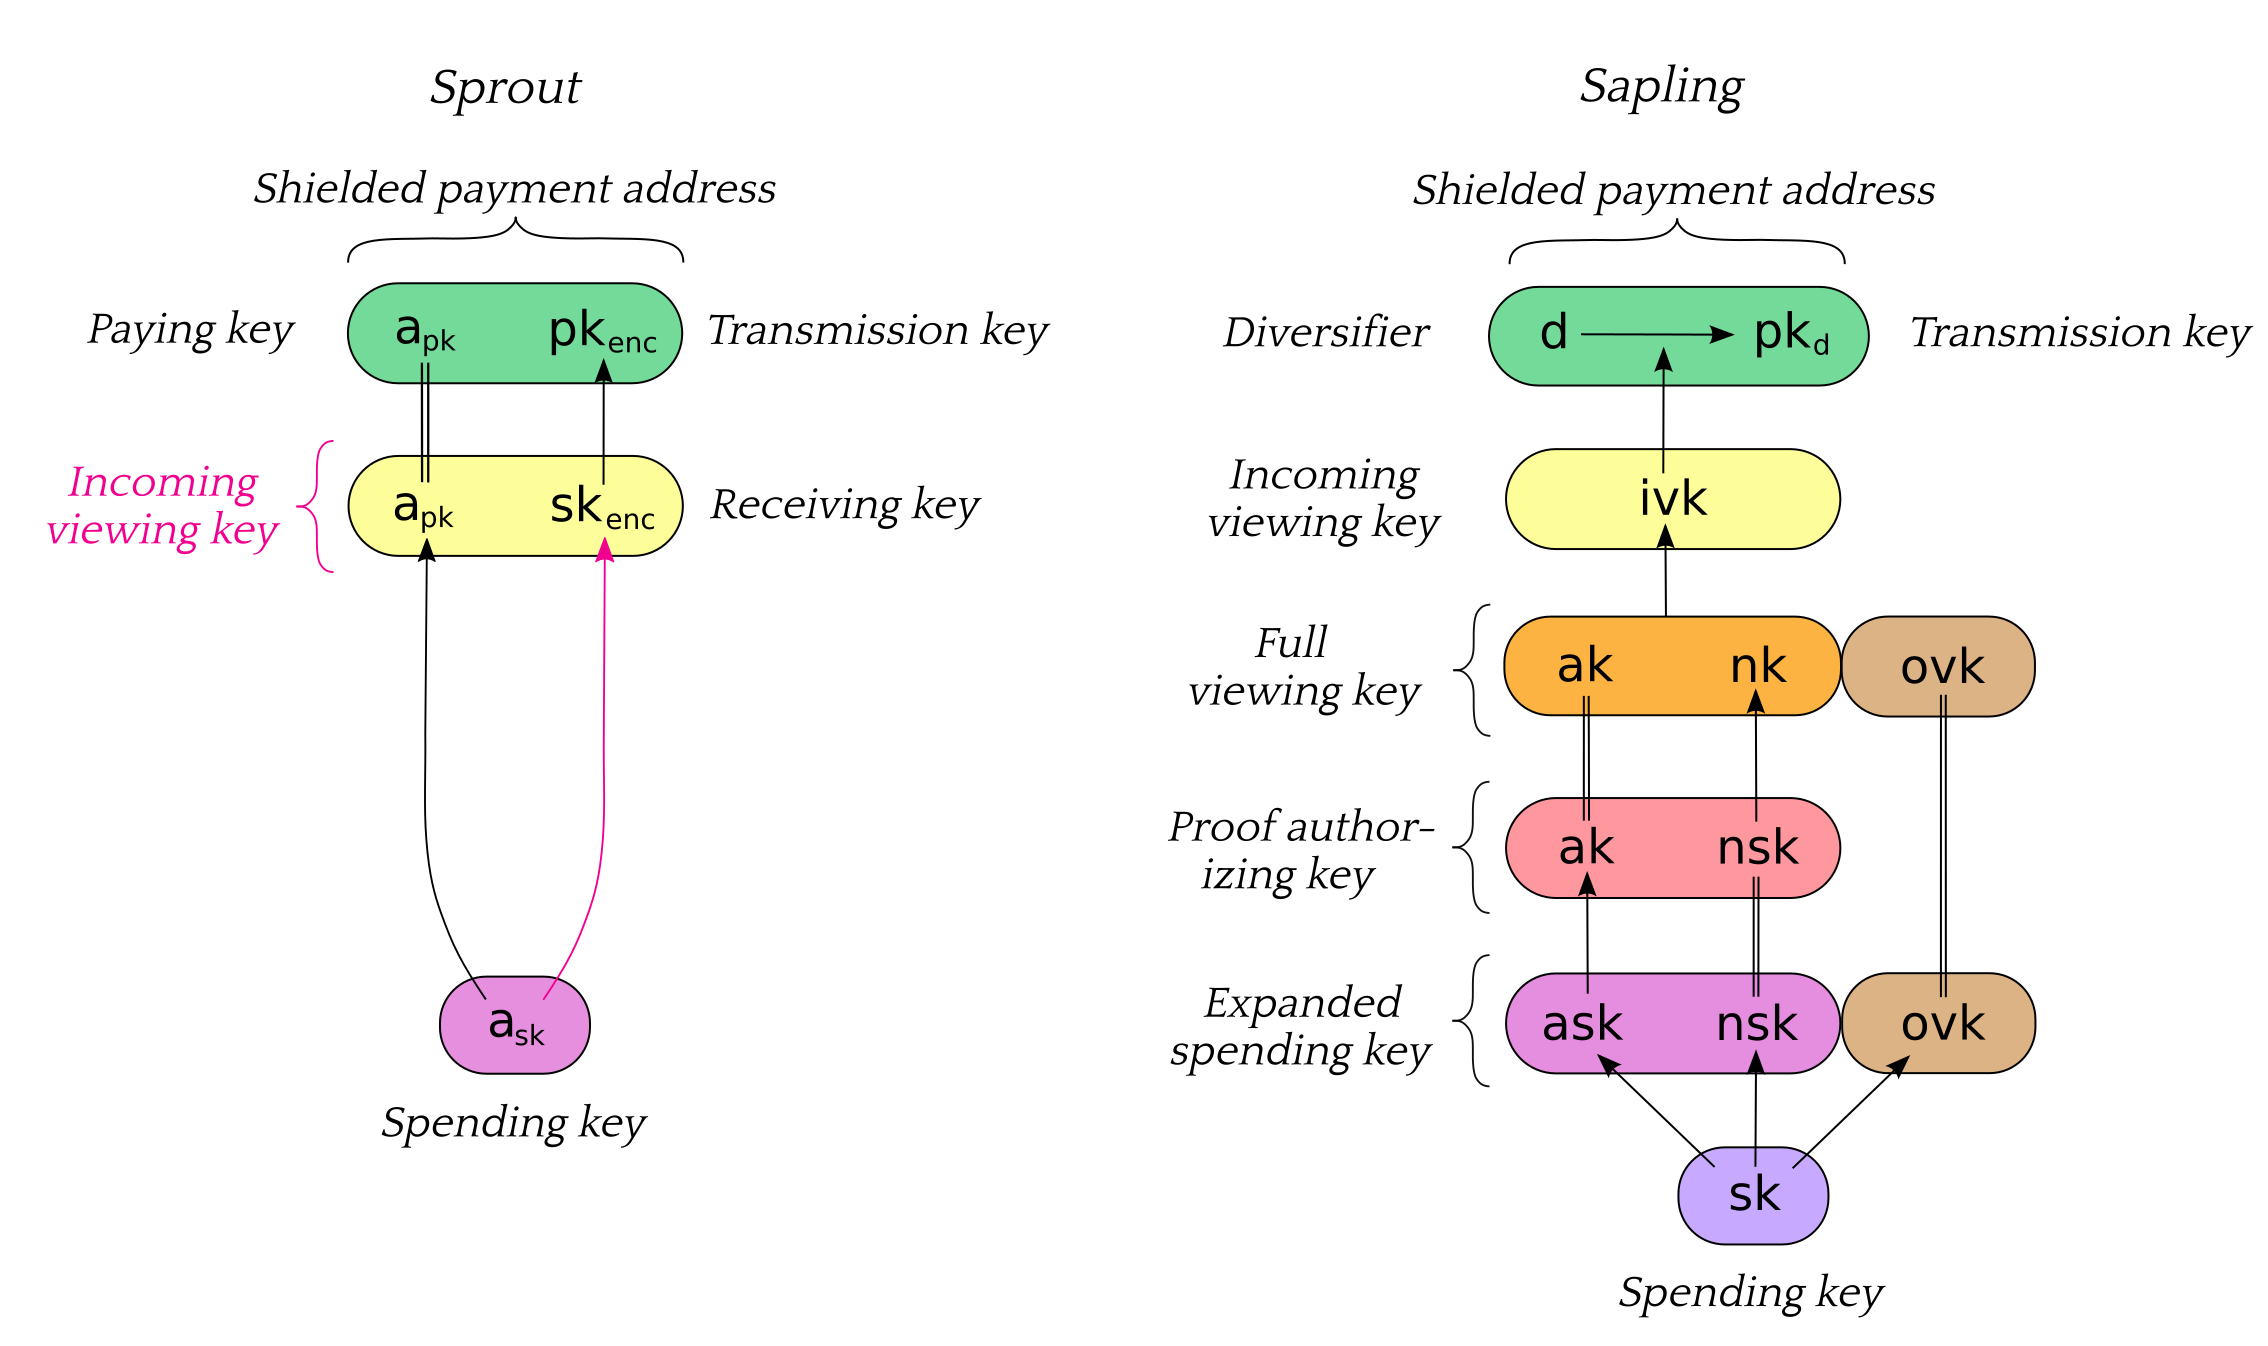
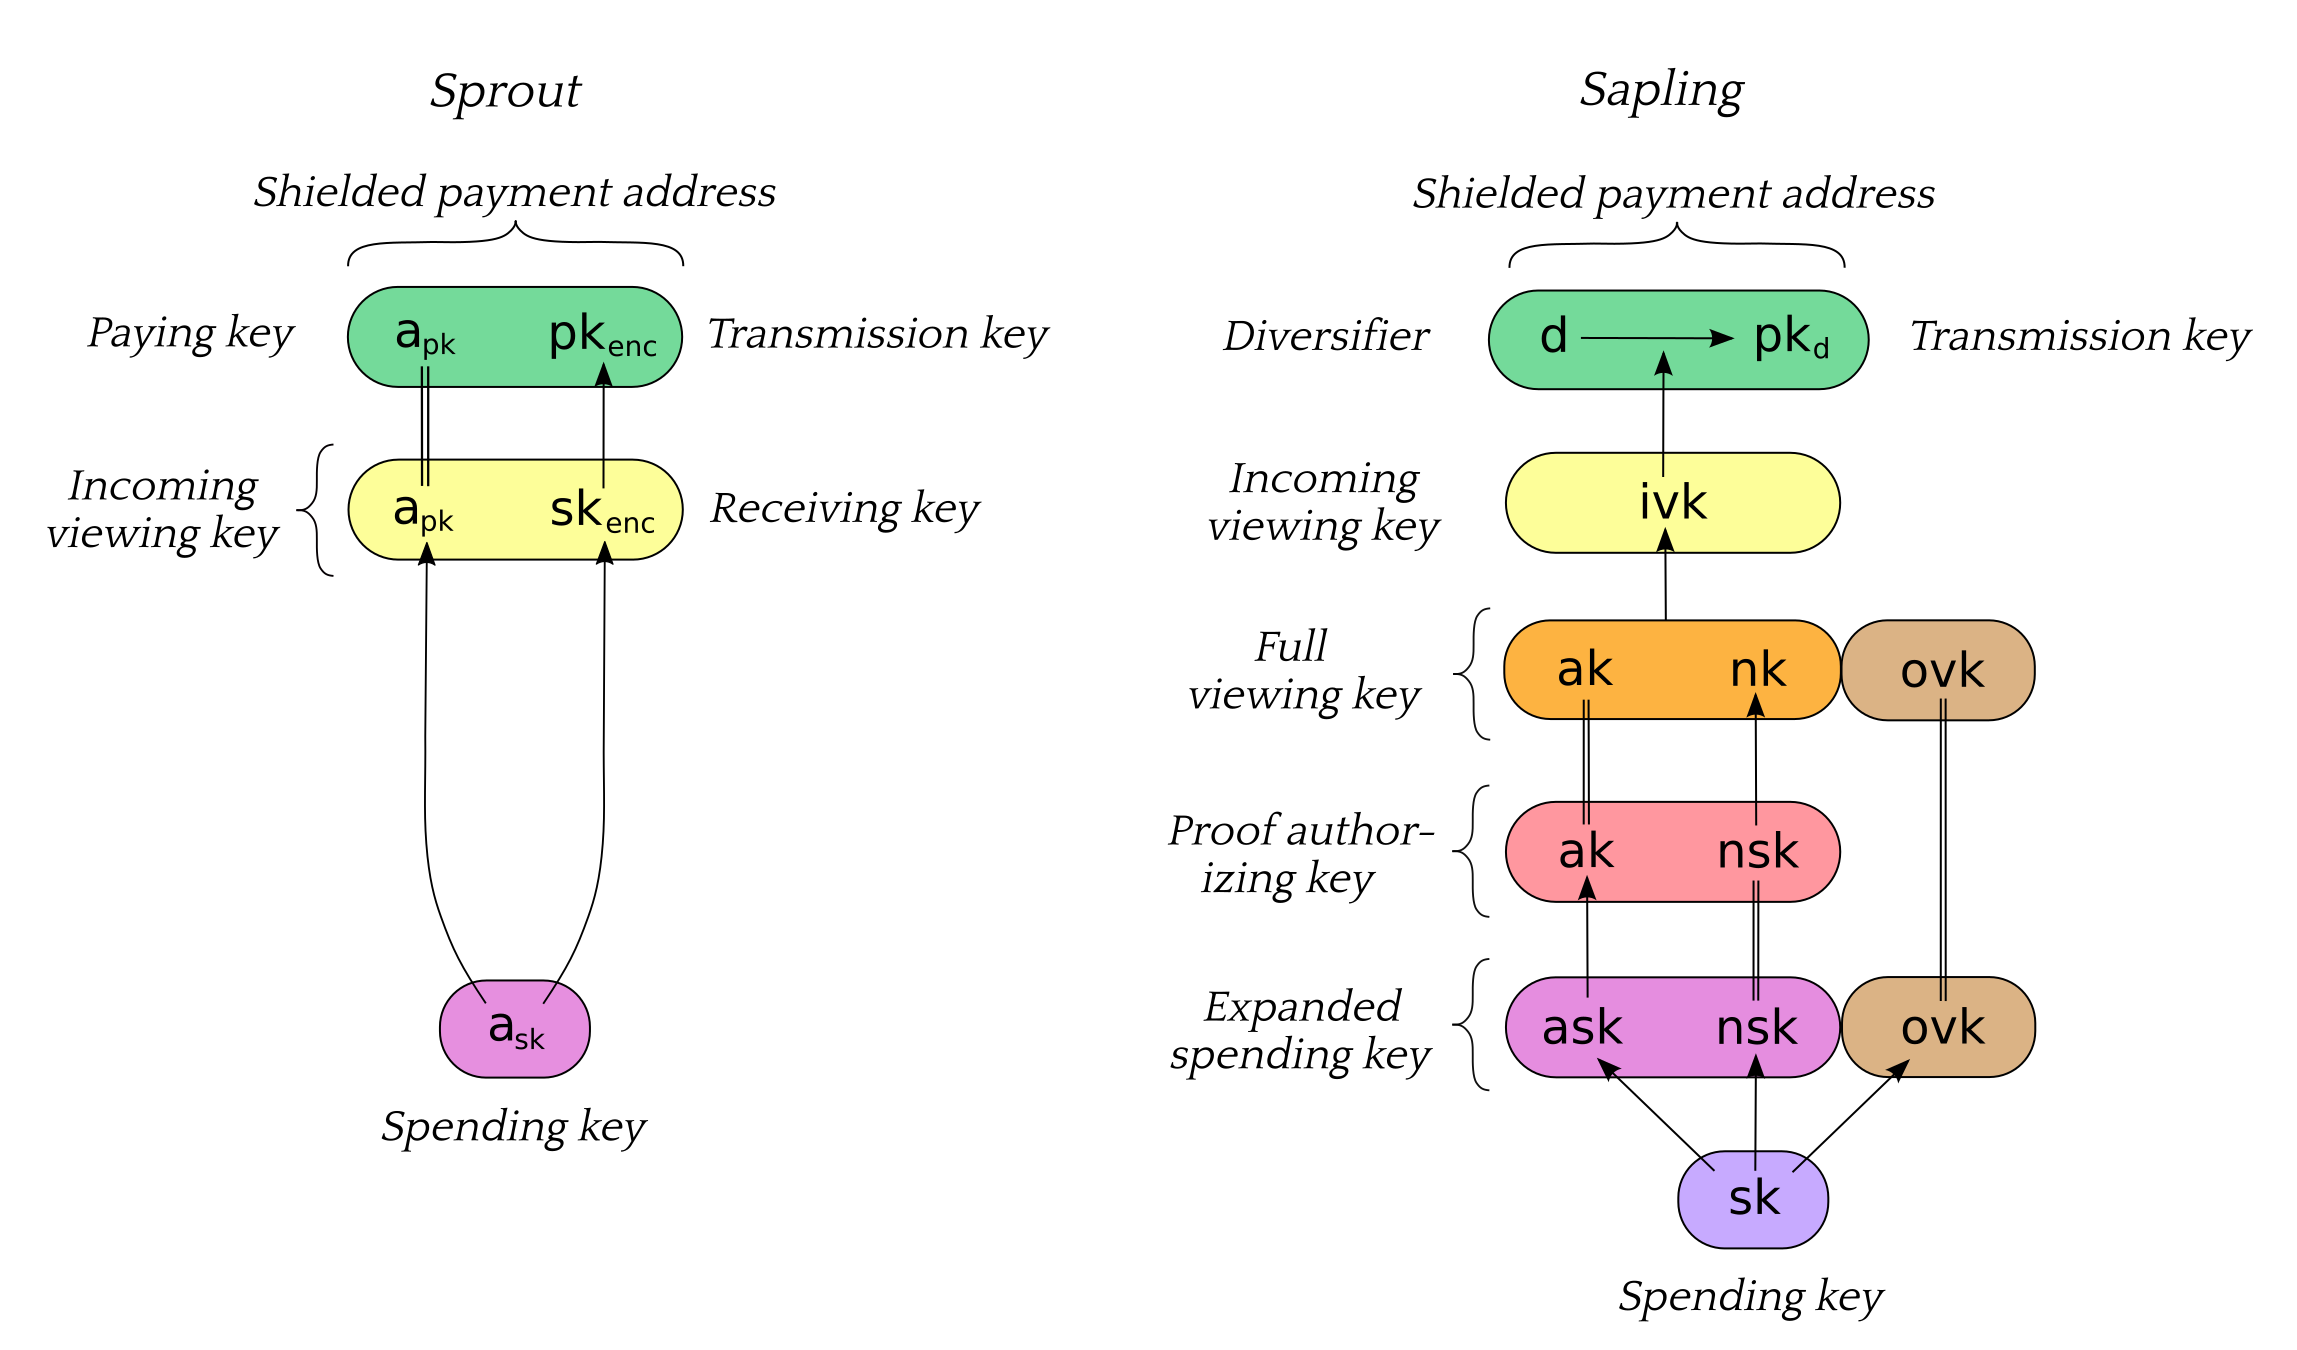
Update the Sprout key component diagram in \crossref{addressesandkeys} to remove magenta highlighting.Remove magenta highlighting

diff --git a/protocol/protocol.tex b/protocol/protocol.tex
@@ -14120,6 +14120,8 @@ Peter Newell's illustration of the Jubjub bird, from \cite{Carroll1902}.
 } %nufive
     \item Write the caution about linkage between the abstract and concrete protocols in
           \crossref{cautionlinkage}.
+    \item Update the \Sprout key component diagram in \crossref{addressesandkeys} to remove
+          magenta highlighting.
 \end{itemize}
 
 
